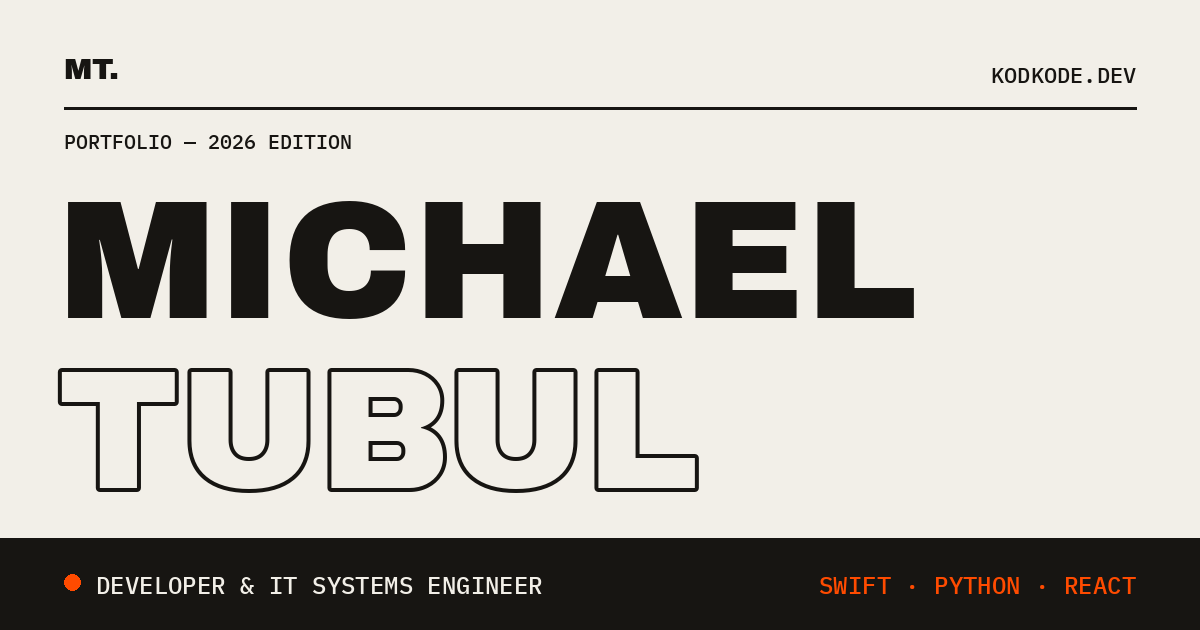
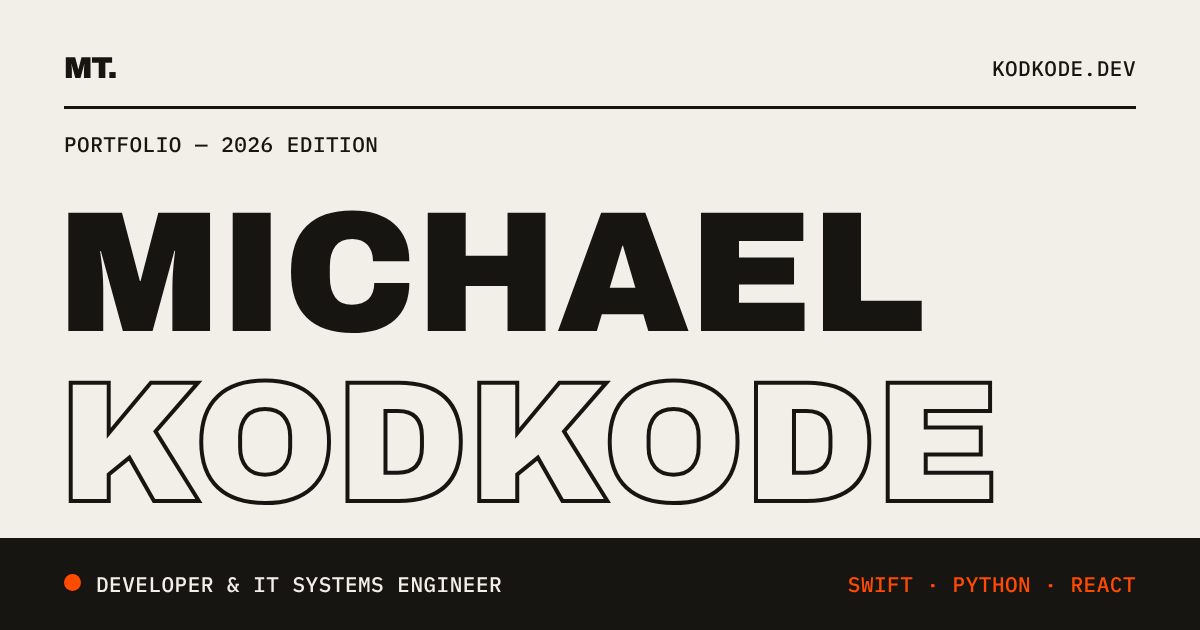
chore: remove surname from site text, meta tags and OG image
Claude-Session: https://claude.ai/code/session_01Cf1zQRnM3tq48nEZvoUt4m

diff --git a/index.html b/index.html
@@ -6,17 +6,17 @@
     <meta name="viewport" content="width=device-width, initial-scale=1.0" />
     <meta
       name="description"
-      content="Michael Tubul — developer & IT systems engineer building automation, apps, and AI-assisted workflows."
+      content="Michael — developer & IT systems engineer building automation, apps, and AI-assisted workflows."
     />
     <meta name="theme-color" content="#f2efe8" />
-    <title>Michael Tubul — Developer & IT Systems Engineer</title>
+    <title>Michael — Developer & IT Systems Engineer</title>
     <link rel="canonical" href="https://kodkode.dev/" />
 
     <!-- Open Graph -->
     <meta property="og:type" content="website" />
     <meta property="og:url" content="https://kodkode.dev/" />
-    <meta property="og:site_name" content="Michael Tubul" />
-    <meta property="og:title" content="Michael Tubul — Developer & IT Systems Engineer" />
+    <meta property="og:site_name" content="Michael" />
+    <meta property="og:title" content="Michael — Developer & IT Systems Engineer" />
     <meta
       property="og:description"
       content="Automation that runs itself, native apps for Apple platforms, and AI-assisted workflows — from the enterprise server room to the App Store."
@@ -24,11 +24,11 @@
     <meta property="og:image" content="https://kodkode.dev/og-image.png" />
     <meta property="og:image:width" content="1200" />
     <meta property="og:image:height" content="630" />
-    <meta property="og:image:alt" content="Michael Tubul — Developer & IT Systems Engineer" />
+    <meta property="og:image:alt" content="Michael — Developer & IT Systems Engineer" />
 
     <!-- Twitter / X -->
     <meta name="twitter:card" content="summary_large_image" />
-    <meta name="twitter:title" content="Michael Tubul — Developer & IT Systems Engineer" />
+    <meta name="twitter:title" content="Michael — Developer & IT Systems Engineer" />
     <meta
       name="twitter:description"
       content="Automation that runs itself, native apps for Apple platforms, and AI-assisted workflows."

diff --git a/src/Support.jsx b/src/Support.jsx
@@ -16,7 +16,7 @@ const CHECKLIST = [
 
 export default function Support() {
   useEffect(() => {
-    document.title = 'Support — Michael Tubul'
+    document.title = 'Support — Michael'
   }, [])
 
   return (
@@ -38,7 +38,7 @@ export default function Support() {
           Something not working? <span className="text-accent">Tell me.</span>
         </h1>
         <p className="mt-6 max-w-2xl text-lg leading-relaxed text-ink-2">
-          Support for apps published by Michael Tubul on the App Store. Every message is read by me — the
+          Support for apps published by Michael on the App Store. Every message is read by me — the
           developer — and I usually reply within two business days.
         </p>
 
@@ -70,7 +70,7 @@ export default function Support() {
 
       <footer className="border-t-2 border-ink bg-ink py-4 text-paper">
         <div className="mx-auto flex max-w-7xl flex-col justify-between gap-1 px-4 font-mono text-xs uppercase tracking-widest sm:flex-row sm:px-8">
-          <p>© {new Date().getFullYear()} Michael Tubul</p>
+          <p>© {new Date().getFullYear()} Michael</p>
           <p>
             <a href="/" className="link-under">kodkode.dev</a>
           </p>

diff --git a/src/App.jsx b/src/App.jsx
@@ -946,7 +946,7 @@ function Contact() {
 
       <div className="border-t-2 border-ink bg-ink py-4 text-paper">
         <div className="mx-auto flex max-w-7xl flex-col justify-between gap-1 px-4 font-mono text-xs uppercase tracking-widest sm:flex-row sm:px-8">
-          <p>© {new Date().getFullYear()} Michael Tubul</p>
+          <p>© {new Date().getFullYear()} Michael</p>
           <p className="text-paper/60">Designed & built by hand — React, Tailwind, stubbornness</p>
           <p>
             <a href="/support" className="link-under">App Support</a>

diff --git a/README.md b/README.md
@@ -1,4 +1,4 @@
-# Portfolio — Michael Tubul
+# Portfolio — Michael
 
 Personal portfolio site. React + Vite, styled with Tailwind CSS v4, deployed on
 Vercel with a serverless contact form backed by Neon Postgres.
